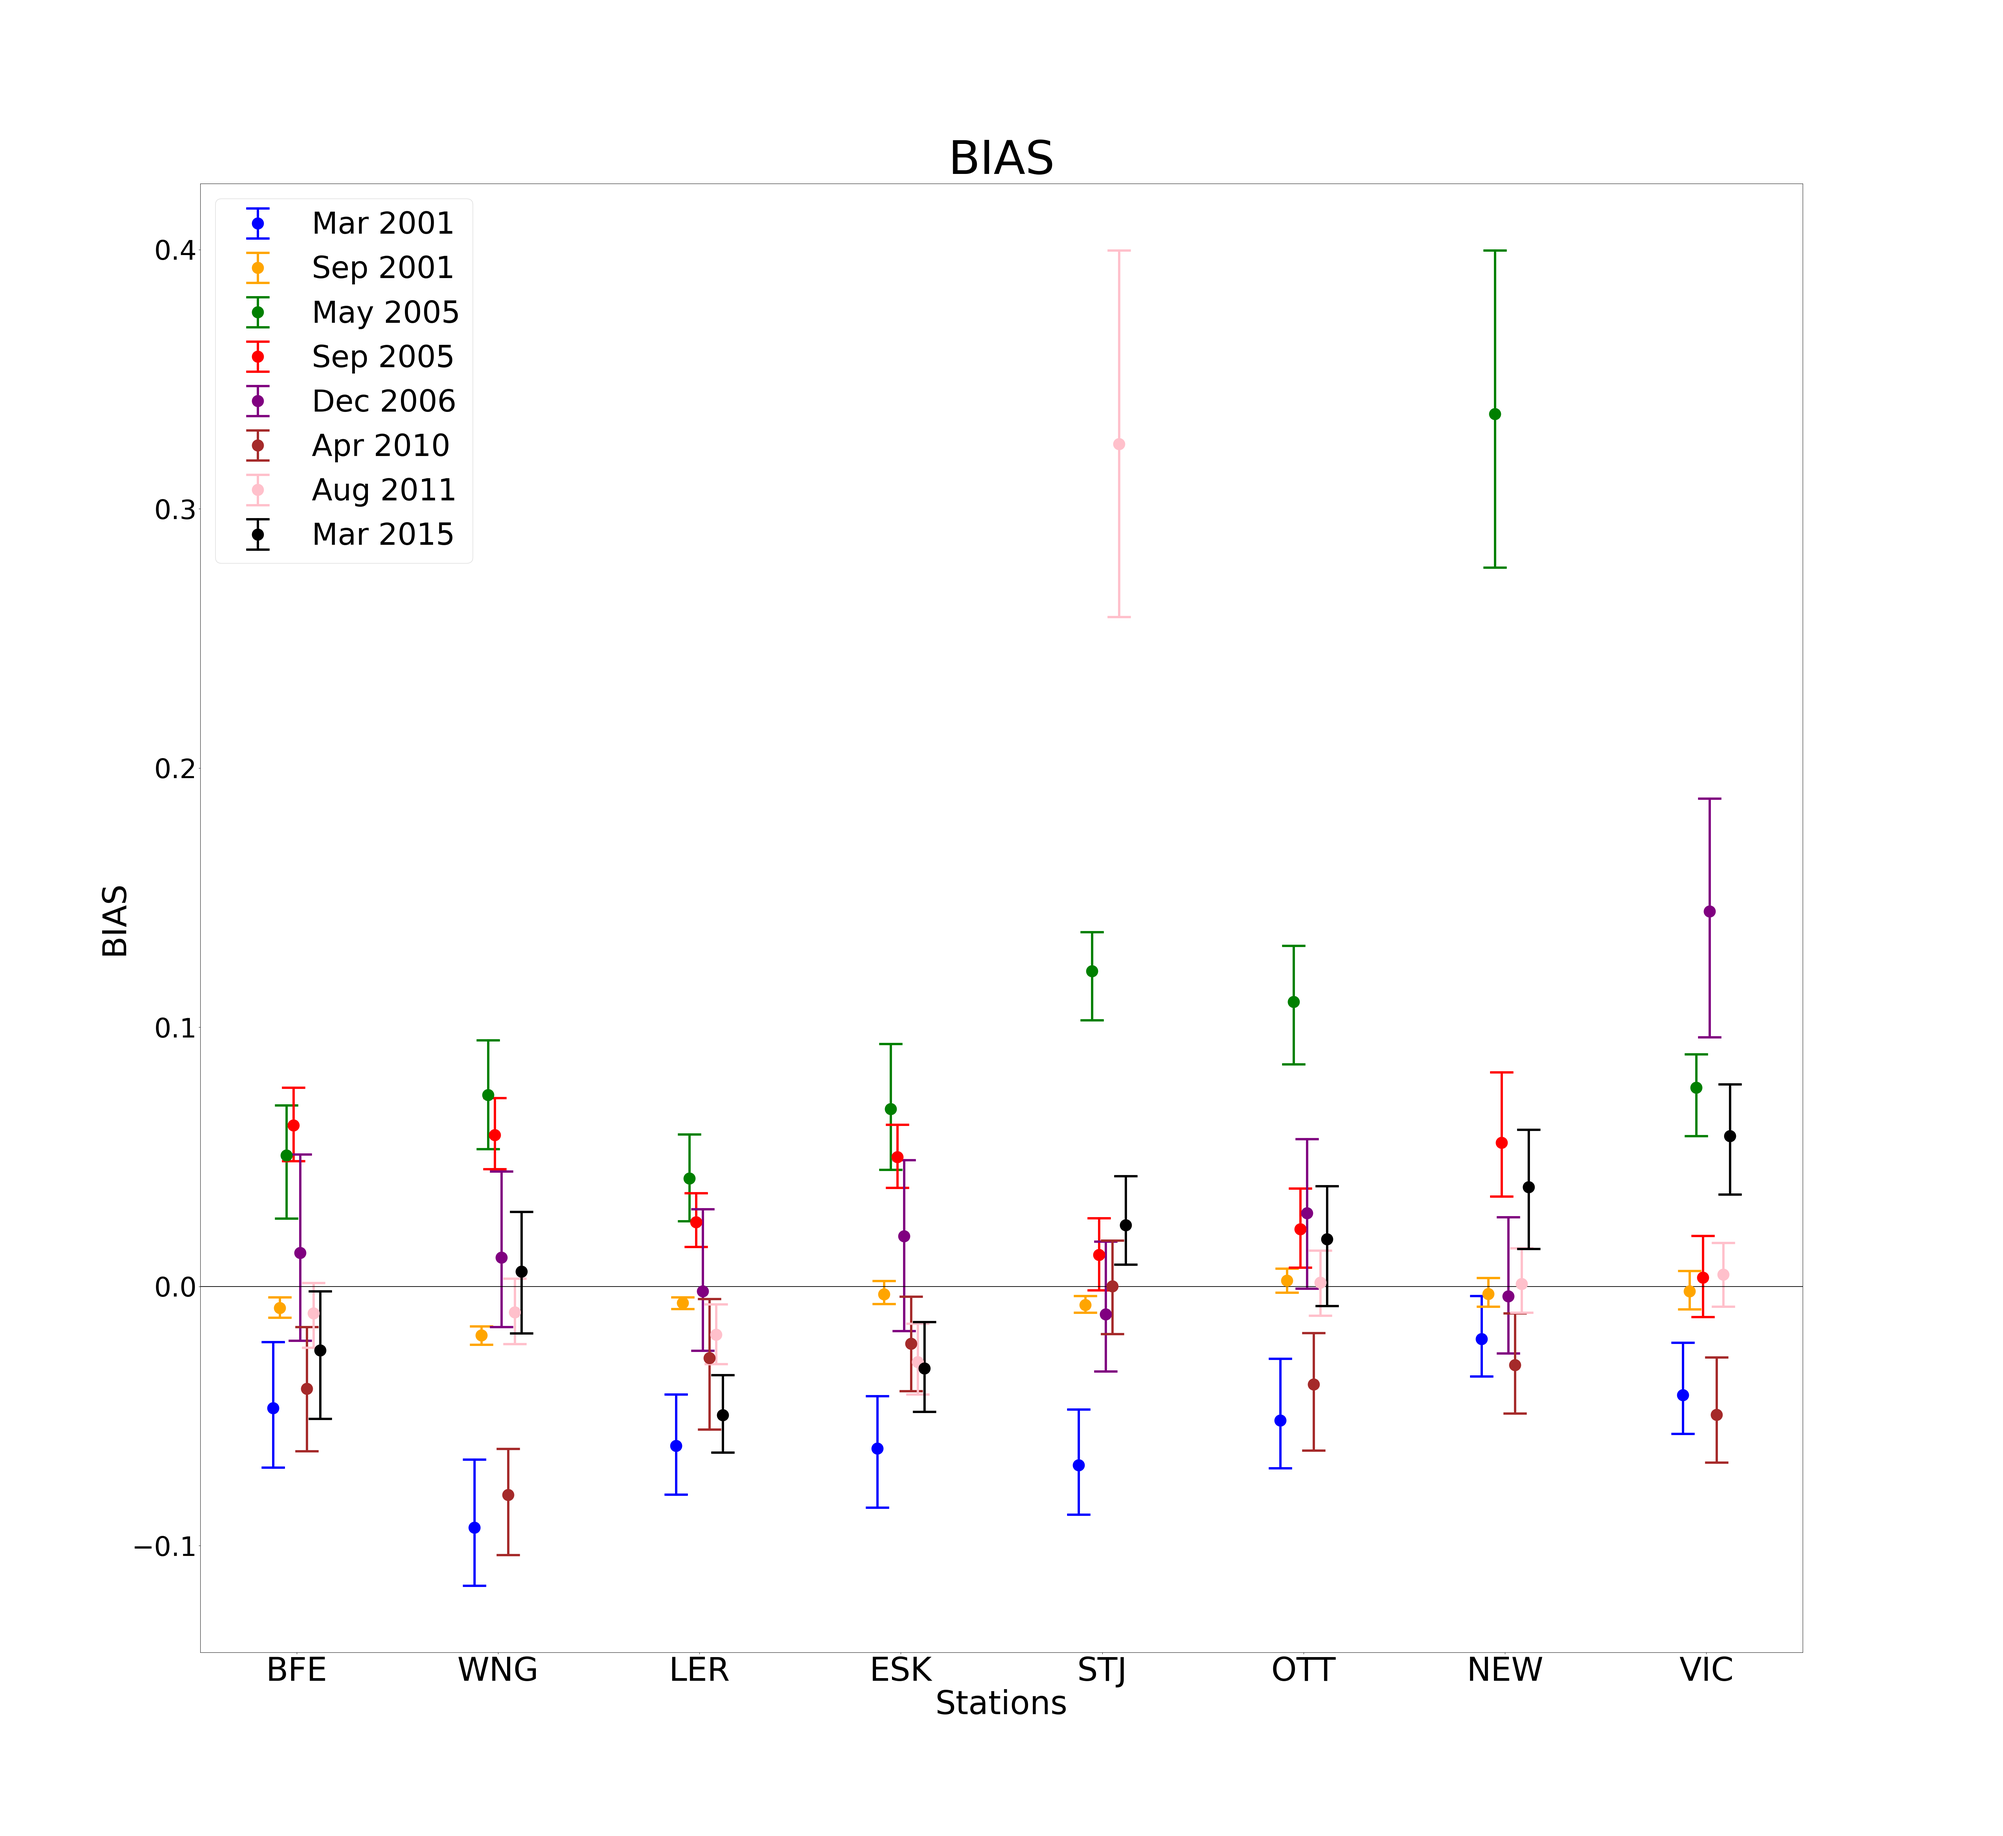
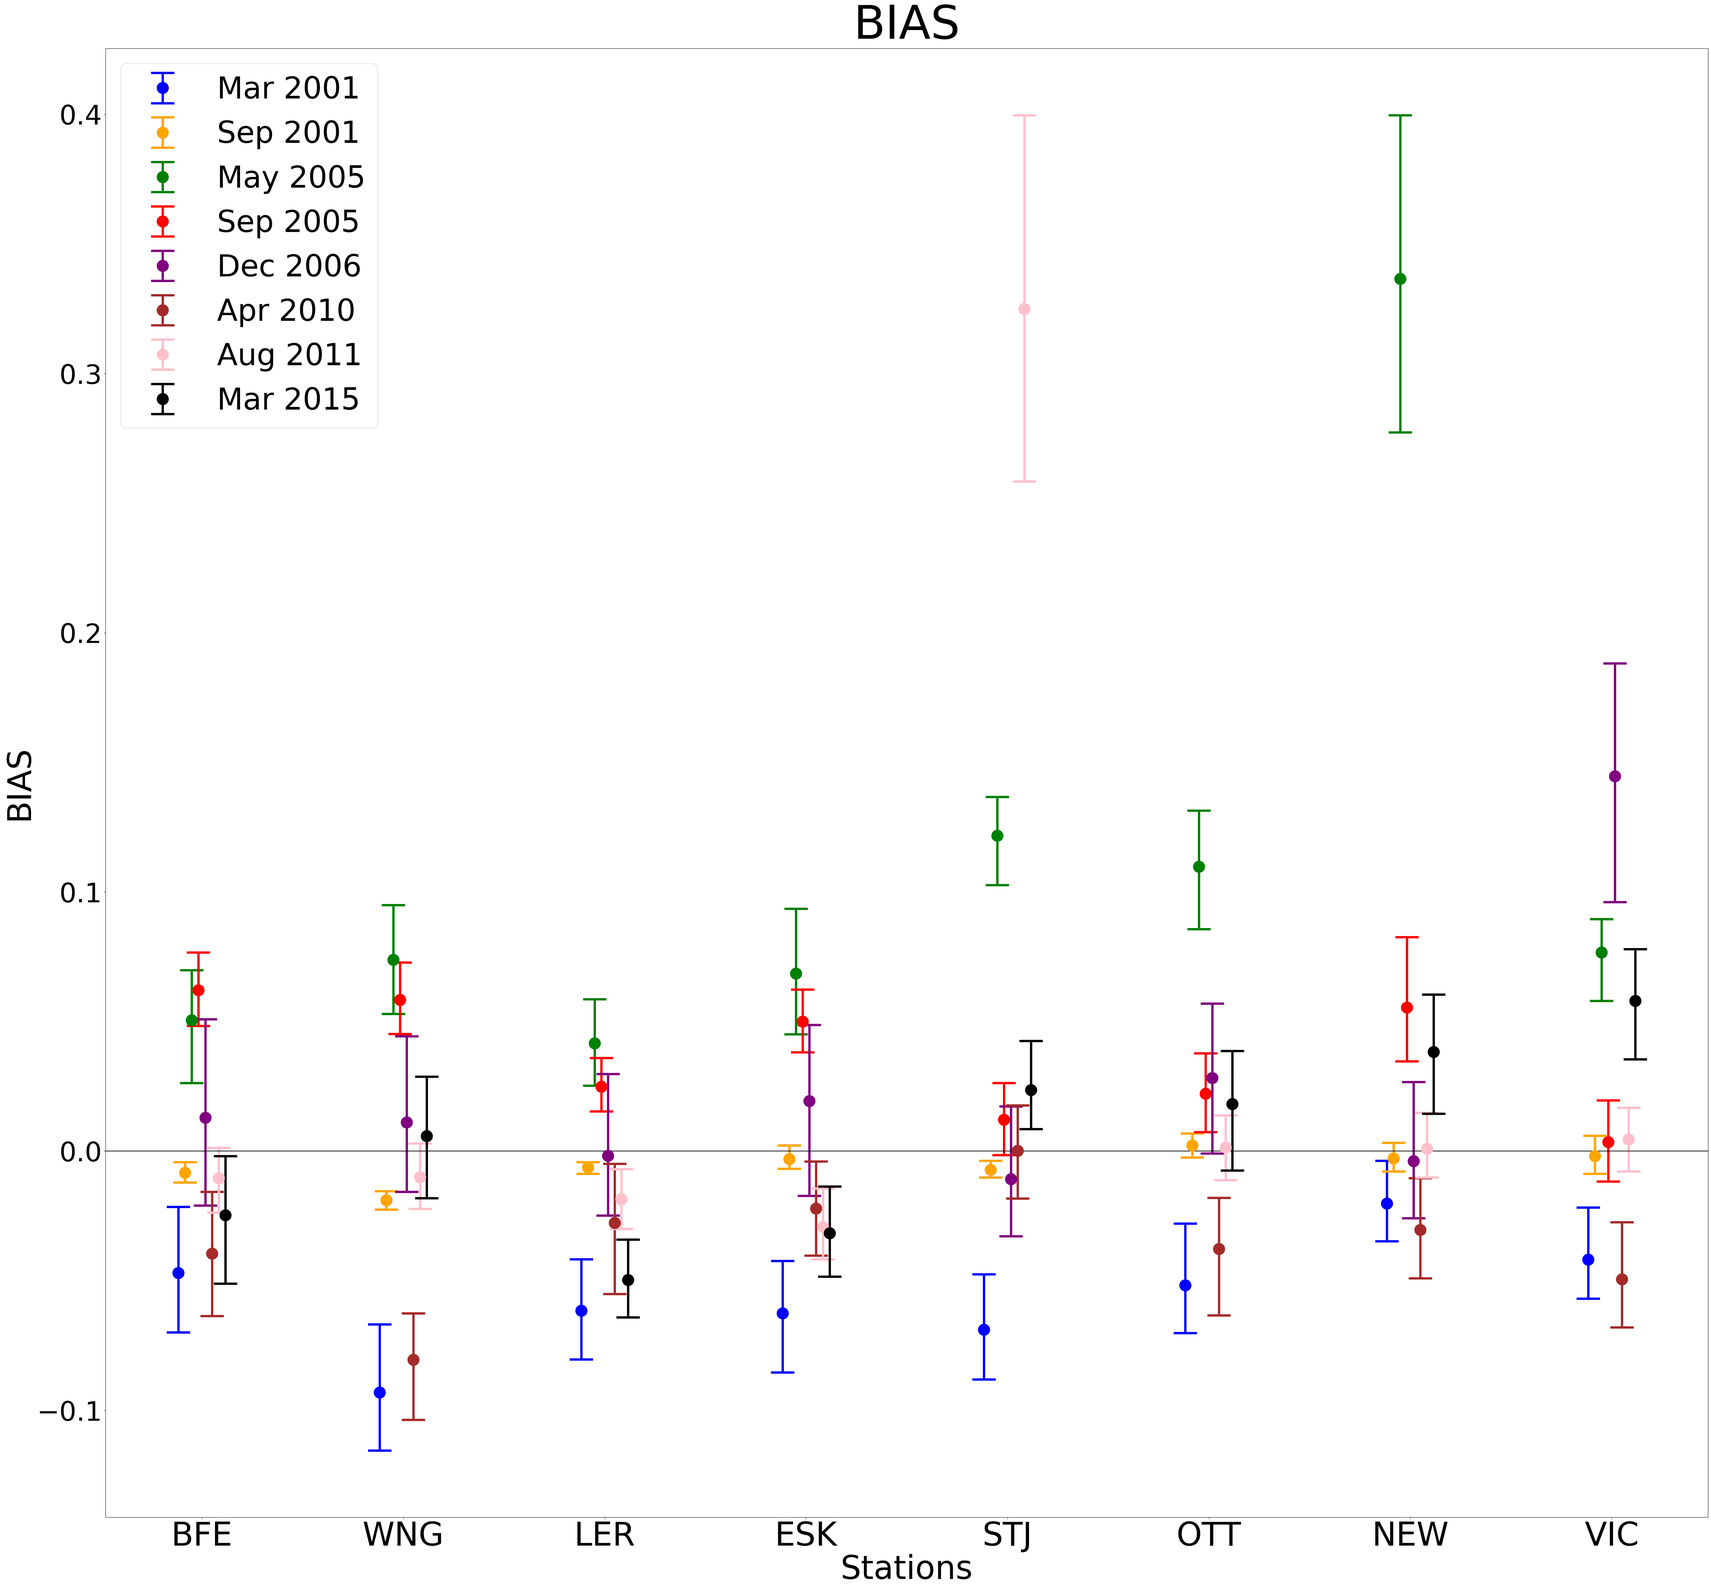
changing plot boundries

diff --git a/plotting.py b/plotting.py
@@ -172,7 +172,7 @@ def plot_metrics(metrics_dict, stations, metrics):
 		plt.yticks(fontsize='58')						# making the y ticks a bit bigger. They're a bit more important
 		plt.legend(fontsize='65')
 
-		plt.savefig('plots/{0}_version_{1}.png'.format(metric, CONFIG['version']))
+		plt.savefig('plots/{0}_version_{1}.png'.format(metric, CONFIG['version']), bbox_inches='tight')
 
 
 def plot_total_metrics(metrics_dict, stations, metrics=['HSS', 'AUC', 'RMSE']):
@@ -212,7 +212,7 @@ def plot_total_metrics(metrics_dict, stations, metrics=['HSS', 'AUC', 'RMSE']):
 		plt.yticks(fontsize='58')						# making the y ticks a bit bigger. They're a bit more important
 		plt.legend(fontsize='65')
 
-		plt.savefig('plots/{0}_total.png'.format(metric, CONFIG['version']))
+		plt.savefig('plots/{0}_total.png'.format(metric, CONFIG['version']), bbox_inches='tight')
 
 def prep_k_fold_results(df, splits):
 	'''prepares the data from the k-folds for plotting and examination. Creates a dataframe that stores the upper and lower calculated bounds for the plotting.
